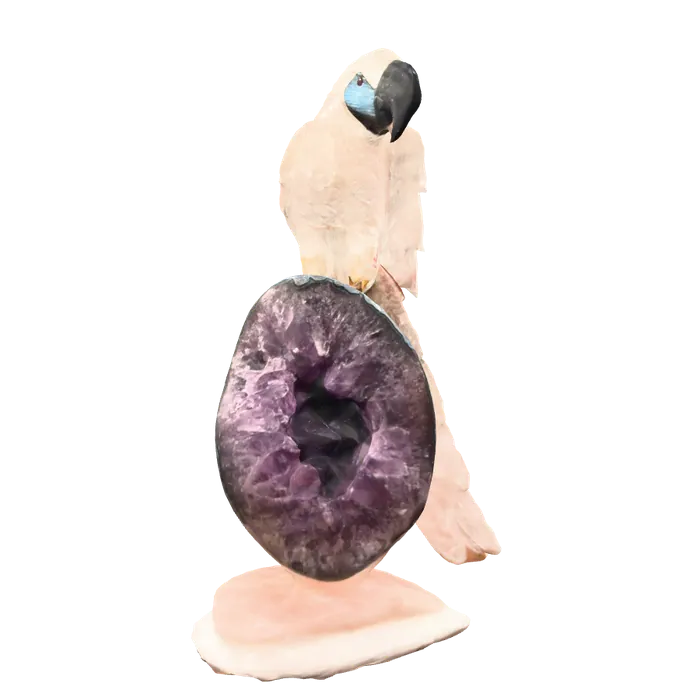
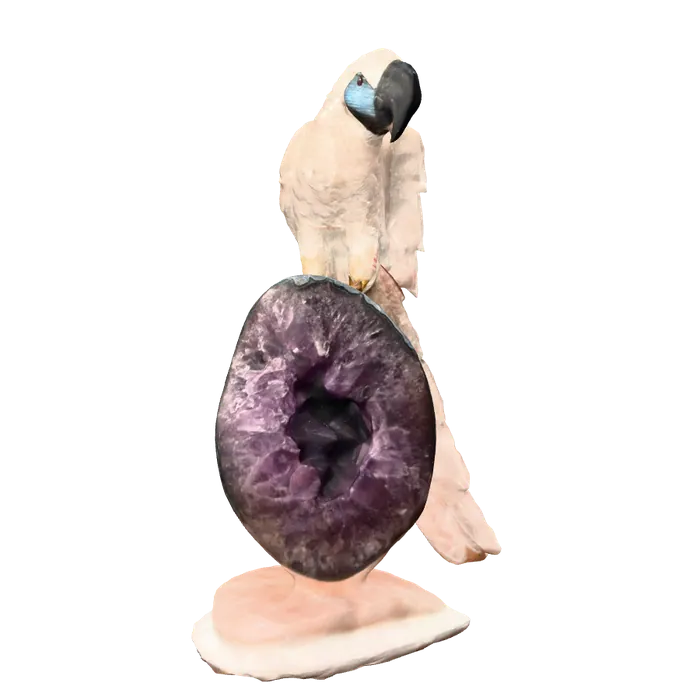
Shop: give the stone back its depth — AgX was flattening it
model-viewer defaults to AgX tone mapping, which rolls highlights off hard
and desaturates as it goes. On a photogrammetry scan of crystal that is
exactly the wrong curve: the amethyst went flat grey-purple, the quartz
read as plaster, and pushing exposure to 2.6 to compensate only washed it
further. Nothing about the asset changed — the file is the same one, it
was being viewed through the wrong curve.

commerce tone mapping at exposure 1.35 on the legacy environment holds the
highlights instead of crushing them, so the geode has depth again and the
base reads translucent. The environment matters as much as the curve:
neutral is flat IBL, and flat light is what made the stone look poured
rather than cut.

The poster is re-rendered through the same settings, or it would flash a
different-looking piece before the model arrives.

Claude-Session: https://claude.ai/code/session_01WFTnHc2j32zKPNy9p9tRwJ

diff --git a/shop/index.html b/shop/index.html
@@ -72,7 +72,7 @@
       poster="../assets/3d/poster.webp"
       auto-rotate rotation-per-second="16deg" auto-rotate-delay="0"
       camera-controls disable-zoom touch-action="pan-y" interaction-prompt="none"
-      environment-image="neutral" exposure="2.6" shadow-intensity="0"
+      tone-mapping="commerce" environment-image="legacy" exposure="1.35" shadow-intensity="0"
       camera-orbit="16deg 80deg 100%" min-camera-orbit="auto 62deg auto"
       max-camera-orbit="auto 98deg auto"
       loading="lazy" reveal="auto"></model-viewer>
